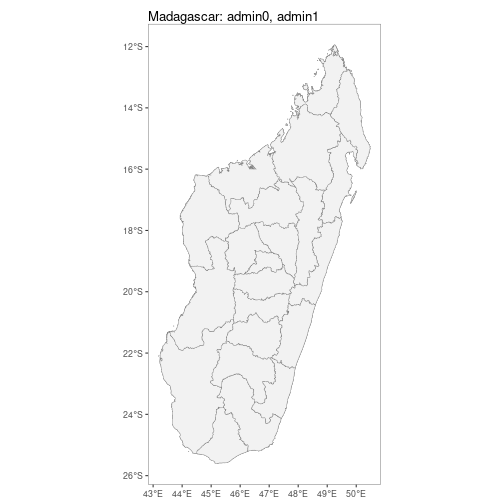
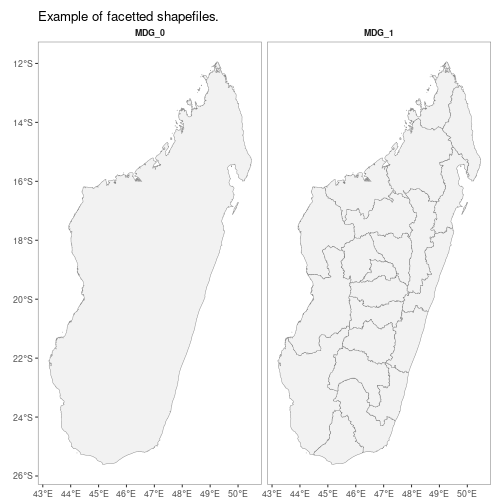
Removed some more unnecessary messaging/printing

diff --git a/README.md b/README.md
@@ -156,15 +156,6 @@ isAvailable_pr(country = "Madagascar", version = "202206")
 MDG_pr_data <- getPR(country = "Madagascar", species = "both")
 ```
 
-```
-## Warning: The `sourcedata` argument of `isAvailable_pr()` is deprecated as of malariaAtlas 1.5.0.
-## ℹ The argument 'sourcedata' has been deprecated. It will be removed in the next version. It has no meaning.
-## ℹ The deprecated feature was likely used in the malariaAtlas package.
-##   Please report the issue at <https://github.com/malaria-atlas-project/malariaAtlas/issues>.
-## This warning is displayed once every 8 hours.
-## Call `lifecycle::last_lifecycle_warnings()` to see where this warning was generated.
-```
-
 
 ```
 ## Rows: 395
@@ -283,37 +274,6 @@ You can also pass this function a dataset version. If you don't it will default 
 MMR_vec_data_201201 <- getVecOcc(country = "Myanmar", version = "201201")
 ```
 
-
-```
-## Rows: 2,866
-## Columns: 25
-## $ id             <int> 1945, 1946, 1951, 1952, 790, 781, 772, 791, 773, 783, 774, 776, 777, 792, 778, 779, 780, 1953, 784, 785…
-## $ site_id        <int> 30243, 30243, 30243, 30243, 1000000072, 1000000071, 1000000071, 1000000072, 1000000071, 1000000071, 100…
-## $ latitude       <dbl> 16.2570, 16.2570, 16.2570, 16.2570, 17.3500, 17.3800, 17.3800, 17.3500, 17.3800, 17.3800, 17.3800, 17.3…
-## $ longitude      <dbl> 97.7250, 97.7250, 97.7250, 97.7250, 96.0410, 96.0370, 96.0370, 96.0410, 96.0370, 96.0370, 96.0370, 96.0…
-## $ country        <chr> "Myanmar", "Myanmar", "Myanmar", "Myanmar", "Myanmar", "Myanmar", "Myanmar", "Myanmar", "Myanmar", "Mya…
-## $ country_id     <chr> "MMR", "MMR", "MMR", "MMR", "MMR", "MMR", "MMR", "MMR", "MMR", "MMR", "MMR", "MMR", "MMR", "MMR", "MMR"…
-## $ continent_id   <chr> "Asia", "Asia", "Asia", "Asia", "Asia", "Asia", "Asia", "Asia", "Asia", "Asia", "Asia", "Asia", "Asia",…
-## $ month_start    <int> 2, 3, 8, 9, 5, 5, 5, 5, 5, 5, 5, 5, 5, 5, 5, 5, 5, 10, 5, 5, 5, 5, 5, 5, 5, 5, 5, 5, 5, 5, 5, 5, 5, 5, …
-## $ year_start     <int> 1998, 1998, 1998, 1998, 1998, 1998, 1998, 1998, 1998, 1998, 1998, 1998, 1998, 1998, 1998, 1998, 1998, 1…
-## $ month_end      <int> 2, 3, 8, 9, 3, 3, 3, 3, 3, 3, 3, 3, 3, 3, 3, 3, 3, 10, 3, 3, 3, 3, 3, 3, 3, 3, 3, 3, 3, 3, 3, 3, 3, 3, …
-## $ year_end       <int> 1998, 1998, 1998, 1998, 2000, 2000, 2000, 2000, 2000, 2000, 2000, 2000, 2000, 2000, 2000, 2000, 2000, 1…
-## $ anopheline_id  <int> 17, 17, 17, 17, 50, 49, 17, 51, 11, 4, 15, 1, 35, 30, 50, 51, 30, 17, 17, 11, 15, 1, 35, 49, 4, 17, 11,…
-## $ species        <chr> "Anopheles dirus species complex", "Anopheles dirus species complex", "Anopheles dirus species complex"…
-## $ species_plain  <chr> "Anopheles dirus", "Anopheles dirus", "Anopheles dirus", "Anopheles dirus", "Anopheles stephensi", "Ano…
-## $ id_method1     <chr> "unknown", "unknown", "unknown", "unknown", "morphology", "morphology", "morphology", "morphology", "mo…
-## $ id_method2     <chr> NA, NA, NA, NA, NA, NA, NA, NA, NA, NA, NA, NA, NA, NA, NA, NA, NA, NA, NA, NA, NA, NA, NA, NA, NA, NA,…
-## $ sample_method1 <chr> "man biting", "man biting", "man biting", "man biting", "man biting indoors", "man biting indoors", "ma…
-## $ sample_method2 <chr> "animal baited net trap", "animal baited net trap", "animal baited net trap", "animal baited net trap",…
-## $ sample_method3 <chr> NA, NA, NA, NA, "animal baited net trap", "animal baited net trap", "animal baited net trap", "animal b…
-## $ sample_method4 <chr> NA, NA, NA, NA, "house resting inside", "house resting inside", "house resting inside", "house resting …
-## $ assi           <chr> "", "", "", "", "", "", "", "", "", "", "", "", "", "", "", "", "", "", "", "", "", "", "", "", "", "",…
-## $ citation       <chr> "Oo, T.T., Storch, V. and Becker, N. (2003).  <b><i>Anopheles</i> <i>dirus</i> and its role in malaria …
-## $ time_start     <date> 1998-02-01, 1998-03-01, 1998-08-01, 1998-09-01, 1998-05-01, 1998-05-01, 1998-05-01, 1998-05-01, 1998-0…
-## $ time_end       <date> 1998-02-01, 1998-03-01, 1998-08-01, 1998-09-01, 2000-03-01, 2000-03-01, 2000-03-01, 2000-03-01, 2000-0…
-## $ geometry       <POINT [°]> POINT (97.725 16.257), POINT (97.725 16.257), POINT (97.725 16.257), POINT (97.725 16.257), POINT…
-```
-
 `autoplot.vector.points` configures autoplot method to enable quick mapping of the locations of downloaded vector points.
 
 
@@ -321,7 +281,7 @@ MMR_vec_data_201201 <- getVecOcc(country = "Myanmar", version = "201201")
 autoplot(MMR_vec_data)
 ```
 
-![plot of chunk unnamed-chunk-27](man/figures/unnamed-chunk-27-1.png)
+![plot of chunk unnamed-chunk-26](man/figures/unnamed-chunk-26-1.png)
 
 N.B. Facet-wrapped option is also available for species stratification.
 
@@ -331,7 +291,7 @@ autoplot(MMR_vec_data,
          facet = TRUE)
 ```
 
-![plot of chunk unnamed-chunk-28](man/figures/unnamed-chunk-28-1.png)
+![plot of chunk unnamed-chunk-27](man/figures/unnamed-chunk-27-1.png)
 
 ### Shapefiles
 
@@ -372,7 +332,7 @@ MDG_shp <- getShp(ISO = "MDG", admin_level = c("admin0", "admin1"))
 autoplot(MDG_shp)
 ```
 
-![plot of chunk unnamed-chunk-31](man/figures/unnamed-chunk-31-1.png)
+![plot of chunk unnamed-chunk-30](man/figures/unnamed-chunk-30-1.png)
 
 N.B. Facet-wrapped option is also available for species stratification.
 
@@ -383,7 +343,7 @@ autoplot(MDG_shp,
          map_title = "Example of facetted shapefiles.")
 ```
 
-![plot of chunk unnamed-chunk-32](man/figures/unnamed-chunk-32-1.png)
+![plot of chunk unnamed-chunk-31](man/figures/unnamed-chunk-31-1.png)
 
 ### Modelled Rasters
 
@@ -395,12 +355,6 @@ MDG_shp <- getShp(ISO = "MDG", admin_level = "admin0")
 MDG_PfPR2_10 <- getRaster(dataset_id = "Explorer__2020_Global_PfPR", shp = MDG_shp, year = 2013)
 ```
 
-```
-## <GMLEnvelope>
-## ....|-- lowerCorner: -25.6089 43.1914 "2000-01-01T00:00:00"
-## ....|-- upperCorner: -11.9454 50.4838 "2019-01-01T00:00:00"
-```
-
 `autoplot.SpatRaster` & `autoplot.SpatRasterCollection` configures autoplot method to enable quick mapping of downloaded rasters.
 
 
@@ -408,7 +362,7 @@ MDG_PfPR2_10 <- getRaster(dataset_id = "Explorer__2020_Global_PfPR", shp = MDG_s
 p <- autoplot(MDG_PfPR2_10, shp_df = MDG_shp)
 ```
 
-![plot of chunk unnamed-chunk-34](man/figures/unnamed-chunk-34-1.png)
+![plot of chunk unnamed-chunk-33](man/figures/unnamed-chunk-33-1.png)
 
 ### Combined visualisation
 
@@ -418,15 +372,7 @@ By using the above tools along with ggplot, simple comparison figures can be eas
 ```r
 MDG_shp <- getShp(ISO = "MDG", admin_level = "admin0")
 MDG_PfPR2_10 <- getRaster(dataset_id = "Explorer__2020_Global_PfPR", shp = MDG_shp, year = 2013)
-```
 
-```
-## <GMLEnvelope>
-## ....|-- lowerCorner: -25.6089 43.1914 "2000-01-01T00:00:00"
-## ....|-- upperCorner: -11.9454 50.4838 "2019-01-01T00:00:00"
-```
-
-```r
 p <- autoplot(MDG_PfPR2_10, shp_df = MDG_shp, printed = FALSE)
 
 pr <- getPR(country = c("Madagascar"), species = "Pf")
@@ -437,7 +383,7 @@ scale_size_continuous(name = "Survey Size")+
  ggtitle("Raw PfPR Survey points\n + Modelled PfPR 2-10 in Madagascar in 2013")
 ```
 
-![plot of chunk unnamed-chunk-35](man/figures/unnamed-chunk-35-1.png)
+![plot of chunk unnamed-chunk-34](man/figures/unnamed-chunk-34-1.png)
 
 Similarly for vector survey data
 
@@ -445,15 +391,7 @@ Similarly for vector survey data
 ```r
 MMR_shp <- getShp(ISO = "MMR", admin_level = "admin0")
 MMR_An_dirus <- getRaster(dataset_id = "Explorer__2010_Anopheles_dirus_complex", shp = MMR_shp)
-```
 
-```
-## <GMLEnvelope>
-## ....|-- lowerCorner: 9.601 92.1893
-## ....|-- upperCorner: 28.5478 101.1701
-```
-
-```r
 p <- autoplot(MMR_An_dirus, shp_df = MMR_shp, printed = FALSE)
 
 vec <- getVecOcc(country = c("Myanmar"), species = "Anopheles dirus")
@@ -464,7 +402,7 @@ geom_point(data = vec, aes(longitude, latitude, colour = species))+
  ggtitle("Vector Survey points\n + The predicted distribution of An. dirus complex")
 ```
 
-![plot of chunk unnamed-chunk-36](man/figures/unnamed-chunk-36-1.png)
+![plot of chunk unnamed-chunk-35](man/figures/unnamed-chunk-35-1.png)
 
 ## Installation
 
